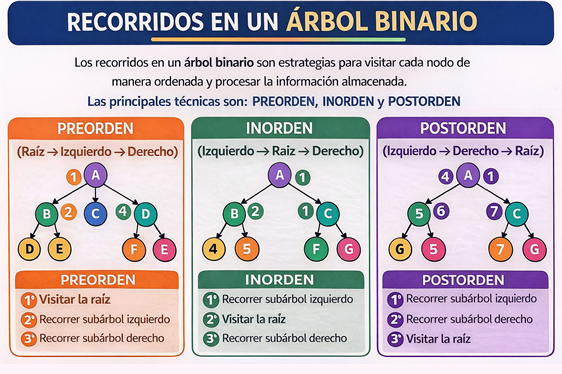
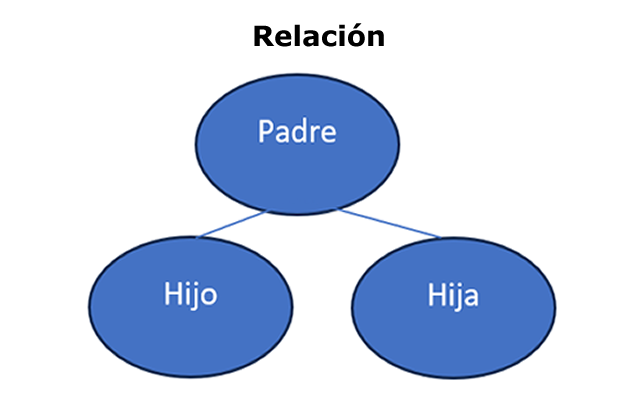
commit 5

diff --git a/UNIDAD_3/3.1.html b/UNIDAD_3/3.1.html
@@ -757,6 +757,31 @@
                         </div>
                         <div class="figure-caption">Nota: </div>                
             </div>
+            <P>Una vez que ya establecio en nodo, entonces ahora se planteara el de relación. Como comentamos en los ejemplos del árbol genealógico y del organigrama, los Nodos pueden tener alguna correspondencia entre ellos, observa el ejemplo siguiente:</P>
+
+                <div class="figure-container">
+                        <div class="figure-caption">Figura 3</div>
+                        <div class="figure-caption">Relación</div>
+                        <div class="figura">
+                            <img src="FIGURA3.png" alt="Relación" class="imagen-figura1"/>
+                        </div>
+                        <div class="figure-caption">Nota: </div>  
+            <p></p>            
+            <p>Como podrás notar, la relación jerárquica entre un padre y sus hijos se ve representada mediante líneas que conectan al Nodo Padre con cada uno de los Nodos Hijos, a estas líneas se les denomina Arcos o Ramas.</p>
+            <p>De esta dependencia jerárquica se desprenden otros tipos de Nodos que también podrás encontrar en la literatura que consultes:</p> 
+                <div class="figure-container">
+                        <div class="figure-caption">Figura 4</div>
+                        <div class="figure-caption">Tipos de Nodos</div>
+                        <div class="figura">
+                            <img src="FIGURA4.png" alt="Tipos de nodos" class="imagen-figura1"/>
+                        </div>
+                        <div class="figure-caption">Nota: </div>  
+                </div>
+            <p>Hemos comentado que un árbol es un conjunto de Nodos y Vértices, por otro lado, sabemos también que existen relaciones entre estos Nodos, con ello encontraremos nuevas definiciones que te explicaremos a continuación:</p>
+                
+
+            </div>
+             
         </div>
         
         <div class="section" id="seccion-3-1-2">